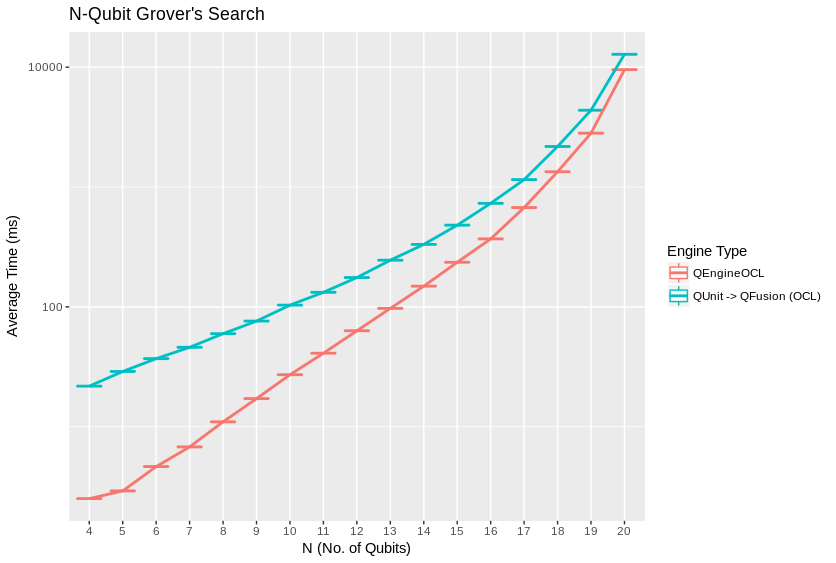
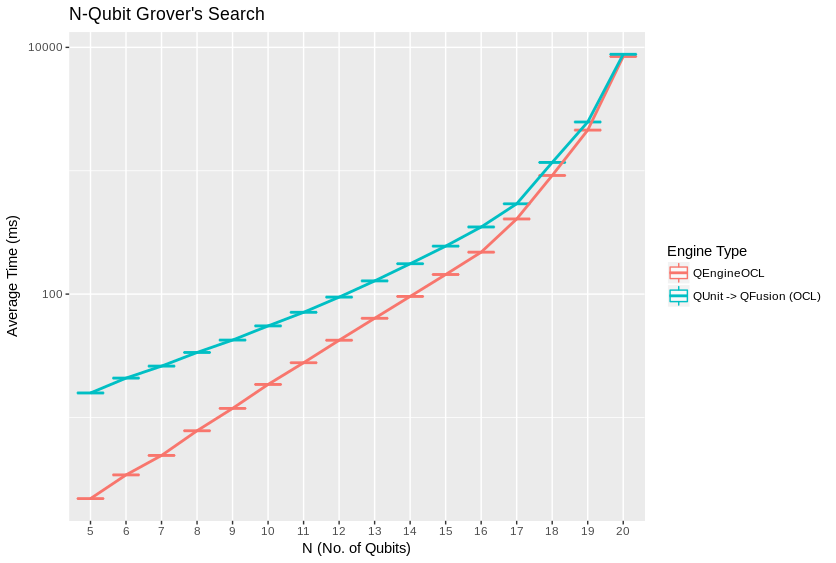
Benchmarks 2019-05-27

diff --git a/docs/performance.rst b/docs/performance.rst
@@ -75,13 +75,13 @@ Disclaimers
 Method
 ******
 
-100 timed trials of single and parallel gates were run for each qubit count between 4 and 28 qubits. The benchmarking code is available at `https://github.com/vm6502q/qrack/blob/master/test/benchmarks.cpp <https://github.com/vm6502q/qrack/blob/master/test/benchmarks.cpp>`_, in which qubit count can be set and tests can be commented out to reduce to the relevant subset.
+100 timed trials of single and parallel gates were run for each qubit count between 5 and 28 qubits. The benchmarking code is available at `https://github.com/vm6502q/qrack/blob/master/test/benchmarks.cpp <https://github.com/vm6502q/qrack/blob/master/test/benchmarks.cpp>`_, in which qubit count can be set and tests can be commented out to reduce to the relevant subset. (Specifically, the branch "benchmarks_2019-05-27" was used, branched off of "qunitmulti," pending the latter branch's merge into master.)
 
-CPU and GPU benchmarks were run on two respective systems that could represent realistic use cases for each engine type. An AWS p3.2xlarge running Ubuntu Server 18.04LTS was used for GPU benchmarks. An Alienware 17 R5 with an Intel(R) Core(TM) i7-8750H running Ubuntu 18.04LTS was used for Qrack CPU benchmarks. Updated Qrack GPU benchmarks were collected May 19th, 2019. These results were combined with an earlier set of test results collected starting on the night of December 19th, 2018 into the morning of December 20th, and additional quantum Fourier transform ("QFT") benchmarks were collected on the night of January 5th, 2019 into the morning of January 6th. To reduce cost, code revisions on Github were compared between December 19th, 2018 and May 19th 2019, for QCGPU and ProjectQ, and lower qubit counts were run to determine that there is no significant change in the set of benchmarks from December and January. (If this is in error, we took care to try to report fair tests, within cost limitations, but please let us know.)
+CPU and GPU benchmarks were run on two respective systems that could represent realistic use cases for each engine type. An AWS p3.2xlarge running Ubuntu Server 18.04LTS was used for GPU benchmarks. An Alienware 17 R5 with an Intel(R) Core(TM) i7-8750H running Ubuntu 18.04LTS was used for Qrack CPU benchmarks and FFTW3. Updated Qrack GPU benchmarks, and benchmarks for FFTW3, were collected May 27th, 2019. These results were combined with an earlier set of test results collected starting on the night of December 19th, 2018 into the morning of December 20th, and additional quantum Fourier transform ("QFT"/"DFT") benchmarks were collected on the night of January 5th, 2019 into the morning of January 6th. To reduce cost, code revisions on Github were compared between December 19th, 2018 and May 19th 2019, for QCGPU and ProjectQ, and lower qubit counts were run to determine that there is no significant change in the set of benchmarks from December and January. (If this is in error, we took care to try to report fair tests, within cost limitations, but please let us know.)
 
-The average and quartile boundary values of each set of 100 were recorded and graphed. Grover's search to invert a black box subroutine, or "oracle," was similarly implemented for trials between 4 and 20 qubits, for QEngineOCL with and without QUnit and QFusion layers. Grover's algorithm was iterated an optimal number of times, vs. qubit count, to maximize probability on a half cycle of the algorithm's period, being :math:`floor\left[\frac{\pi}{4asin^2\left(1/\sqrt{2^N}\right)}\right]` iterations for :math:`N` qubits.
+The average and quartile boundary values of each set of 100 were recorded and graphed. Grover's search to invert a black box subroutine, or "oracle," was similarly implemented for trials between 5 and 20 qubits, for QEngineOCL with and without QUnit and QFusion layers. Grover's algorithm was iterated an optimal number of times, vs. qubit count, to maximize probability on a half cycle of the algorithm's period, being :math:`floor\left[\frac{\pi}{4asin^2\left(1/\sqrt{2^N}\right)}\right]` iterations for :math:`N` qubits.
 
-A quantum Fourier transform was run for 100 trials between 4 and 28 qubits on the GPU engine types. ProjectQ and QCGPU were also benchmarked for this test, on an AWS p3.2xlarge running Ubuntu Server 18.04LTS, with the benchmarking code provided by QCGPU, accessed from its Github repository on 12/1/18, in Python 3. The benchmarking script available from QCGPU iterates at random between the engine options, but it was slightly modified to alternate between trials of ProjectQ and QCGPU, to get exactly 100 samples apiece per qubit count.
+A quantum Fourier transform was run for 100 trials between 5 and 28 qubits on the GPU engine types. ProjectQ, QCGPU, and FFTW3 were also benchmarked for this test. ProjectQ and QCGPU were tested on an AWS p3.2xlarge running Ubuntu Server 18.04LTS, with the benchmarking code provided by QCGPU, accessed from its Github repository on 12/1/18, in Python 3. The benchmarking script available from QCGPU iterates at random between the engine options, but it was slightly modified to alternate between trials of ProjectQ and QCGPU, to get exactly 100 samples apiece per qubit count. FFTW3 was tested on the aforementioned 17 R5, in "in-place" mode, since all other DFT tests are effectively "in-place" method, here.
 
 QUnit was analyzed based on half its round trip time, for the application of the QFT followed by its inverse. This is a representative test of Qrack::QUnit performance, because QFT of a permutation basis eigenstate is generally much faster than the inverse operation applied to the result. QUnit explicitly separates the representation of qubit subsystems when it can, such that performance differs greatly between entirely separable and entirely entangled cases, hence we need to show various representative cases. Separability considerations do not affect maximally entangled representations, as are all other simulators tested here, (though ProjectQ includes a compilation layer on top of its default simulator). 
 
@@ -114,9 +114,9 @@ Grover's algorithm is a relatively ideal test case, in that it allows a modicum 
 
 [Broda2016]_ discusses how Grover's might be adapted in practicality to actually "search an unstructured database," or search an unstructured lookup table, and Qrack is also capable of applying Grover's search to a lookup table with its IndexedLDA, IndexedADC, and IndexedSBC methods. Benchmarks are not given for this arguably more practical application of the algorithm, because few other quantum computer simulator libraries implement it, yet.
 
-The quantum Fourier transform (QFT) is another realistic test case. Other simulators were also tested on the QFT. QFT operations were directly "chained," starting from the |0> permutation state. Qrack::QUnit was able to recover full (or virtually full) separability of qubits at every other step of 100 iterations, oscillating between modes of the "entangled" and "separable" QUnit median trends shown in the graph.
+The "quantum" (or "discrete") Fourier transform (QFT/DFT) is another realistic test case. Other simulators were also tested on the QFT, including QCGPU, ProjectQ, and FFTW3, (which is not explicitly quantum simulatory software). 
 
-QEngineCPU took approximately 100 seconds per 1 trial (of 100) for 22 qubits and approximately 200 seconds for a 23 qubit QFT, and testing the QEngineCPU type therefore become prohibitive, for the full range of qubits between 4 and 28. To avoid confusion in the graph, and since QEngineCPU might therefore be impractical for large QFTs, we leave both it and its QUnit/QFusion variant off the graph.
+QEngineCPU took approximately 100 seconds per 1 trial (of 100) for 22 qubits and approximately 200 seconds for a 23 qubit QFT, and testing the QEngineCPU type therefore become prohibitive, for the full range of qubits between 5 and 28. To avoid confusion in the graph, and since QEngineCPU might therefore be impractical for large QFTs, we leave both it and its QUnit/QFusion variant off the graph.
 
 .. image:: performance/qft.png
 
@@ -124,14 +124,14 @@ QEngineOCL generally outperforms the default simulator "backend" for ProjectQ. H
 
 For lower numbers of qubits, QEngineOCL outperforms QCGPU. Both simulators follow a trend that appears to reach a knee of faster exponential growth. The "knee" comes at a lower number of qubits for QEngineOCL than for QCGPU, at about 19 or 18 qubits, versus 25 or 24 qubits for QCGPU.
 
-QUnit was analyzed based on half its round trip time, for the application of the QFT followed by its inverse. The distribution of its times was log normal for the random input state distributions selected, so the times given are "exponent-mean-log," 2 raised to the mean of the log base 2 of the trial times, for which the mean closely matches the median and the standard deviations are consistently very small. QUnit represents its state vector in terms of decomposed subsystems, when possible and efficient. After an operation that should disentangle subsystems, QUnit can optionally try to separate the representations of independent subsystems, recovering a factor of 1/2, for each separated bit, of subsystem RAM and gate application time for further gates. QUnit outperforms all other simulators analyzed, when transforming a permutation basis eigenstate, without attempting to recover additional separability after the inverse transform. It fails to outperform QCGPU on half the round trip, if we attempt to separate QUnit's subsystems on the return trip, but further gate application will usually receive a large boost from this attempt at subsystem separation. A linear superposition of permutation states probably represents a realistic and fairly general set of inputs or outputs for the QFT; QUnit times are very close to QEngineOCL times for a random linear superposition of permutation basis input states.
+QUnit was analyzed based on half its round trip time, for the application of the QFT followed by its inverse. The distribution of its times was log normal for the random input state distributions selected, so the times given are "exponent-mean-log," 2 raised to the mean of the log base 2 of the trial times, for which the mean closely matches the median and the standard deviations are consistently very small. QUnit represents its state vector in terms of decomposed subsystems, when possible and efficient. After an operation that should disentangle subsystems, QUnit will attempt to separate the representations of independent subsystems, in the course of further controlled gates, recovering a factor of 1/2 for each separated bit of subsystem RAM and gate application time for further gates. QUnit outperforms all other simulators analyzed, when transforming a permutation basis eigenstate. A linear superposition of permutation states probably represents a realistic and fairly general set of inputs or outputs for the QFT; QUnit times outpeform QEngineOCL times and come within a factor of 2, at high end, for a random linear superposition of permutation basis input states.
 
 Discussion
 **********
 
 Up to a consistent deviation at low qubit counts, speed and RAM usage is well predicted by theoretical complexity considerations of the gates, up to about a factor of 2 on heap usage for duplication of the state vector, with additional 1/2 the size of state vector allocated by QEngineOCL for an auxiliary normalization buffer.
 
-In the comparative QFT benchmarks, the difference between QCGPU and Qrack in the "knee" in the base engine might be partially due to scalable work distribution in the OpenCL kernels. QEngineOCL is written to distribute work among an arbitrarily small number of processing elements and max work item size. Max work item size is a device-specific hardware parameter limiting how many work items may be dispatched in an OpenCL kernel call. QEngineOCL can distribute large numbers of probability amplitude transformations to small numbers of work items, incurring additional looping overhead, whereas QCGPU is written to dispatch one work item to one processing element. QCGPU requires a large enough hardware max work item size to add higher numbers of qubits, which might or not might not prove prohibitive in addressing the largest possible amount of general RAM on typical GPUs. Whereas QCGPU might not be, Qrack is theoretically compatible with OpenCL devices with smaller maximum work item counts, potentially such as CPUs. Additionally, Qrack normalizes its state vector at on-the-fly opportunities, to correct for float rounding error, incurring overhead costs but benefiting the accuracy of the simulation over very long strings of gate applications. QEngineOCL was also designed to support access by separate QEngineOCL instances in different threads to shared OpenCL devices, as well as optional out-of-order OpenCL queue execution, when available, which might add host overhead.
+For the additional overhead in the comparative QFT benchmarks, the difference between QCGPU and Qrack might come down to support for a much more general API and set of compatible systems, for Qrack. For example, Qrack is written for scalable work distribution in the OpenCL kernels. QEngineOCL is written to distribute work among an arbitrarily small number of processing elements and max work item size. Max work item size is a device-specific hardware parameter limiting how many work items may be dispatched in an OpenCL kernel call. QEngineOCL can distribute large numbers of probability amplitude transformations to small numbers of work items, incurring additional looping overhead, whereas QCGPU is written to dispatch one work item to one processing element. QCGPU requires a large enough hardware max work item size to add higher numbers of qubits, which might or not might not prove prohibitive in addressing the largest possible amount of general RAM on typical GPUs. Whereas QCGPU might not be, Qrack is theoretically compatible with OpenCL devices with smaller maximum work item counts, potentially such as CPUs. Additionally, Qrack give the option to normalize its state vector at on-the-fly opportunities, to correct for float rounding error, incurring overhead costs but benefiting the accuracy of the simulation over very long strings of gate applications. (Normalization was off in all benchmarks, but "host code" must switch between these options.) QEngineOCL was also designed to support access by separate QEngineOCL instances in different threads to shared OpenCL devices, as well as optional out-of-order OpenCL queue execution, when available, which might add host overhead. Further, depending on build options, Qrack can be built compatible with purely 32-bit systems.
 
 Further Work
 ************
